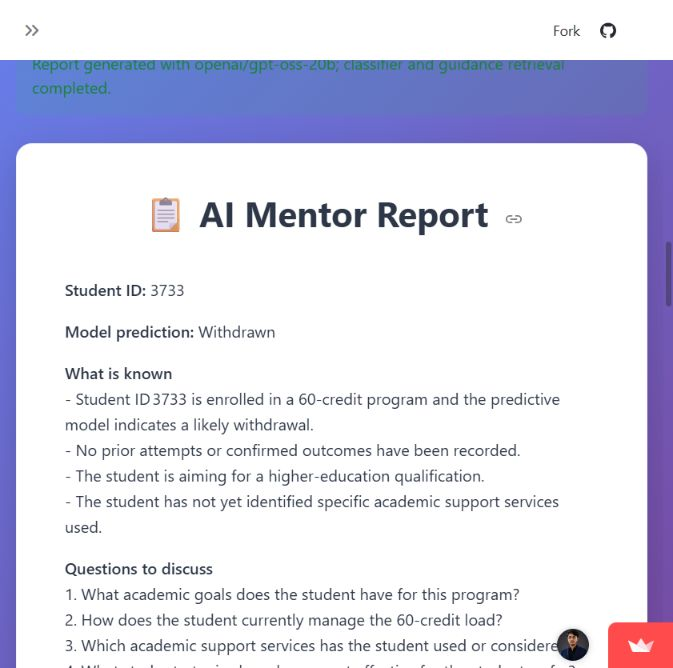
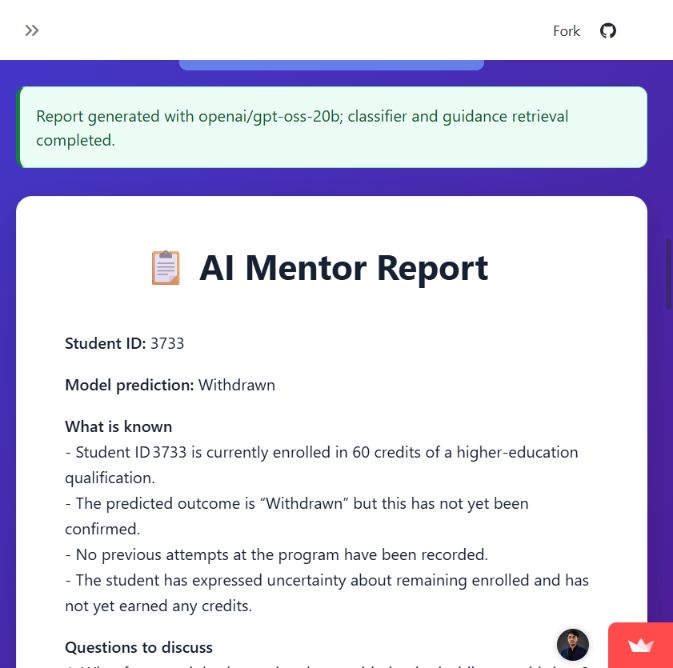
docs: refresh live screenshots after UI color fixes

diff --git a/docs/LIVE_APP_CHECK_2026-11-02.md b/docs/LIVE_APP_CHECK_2026-11-02.md
@@ -2,7 +2,7 @@
 
 **Target:** [AI Academic Mentor](https://ai-academic-mentor.streamlit.app/)
 
-**Repaired deployment source:** `4c1ccbd7f57dba158d2680fdb9bce6e40d1caf08`
+**Repaired deployment source:** `27232acb908307921f5441d6791c2b6c7bb888f4`
 
 **Final outcome:** The app woke successfully. Dashboard/profile interaction, a complete mentoring report, and its Markdown download passed the sample check after repair. The initial failures are preserved below as historical evidence.
 
@@ -16,10 +16,13 @@
 | Markdown report download | Passed | Downloaded `mentor_report_3733.md`; inspected the 4,372-character file and confirmed the student ID, classifier prediction, two source labels, and absence of the earlier compilation-error text. |
 | Workflow and UI regression suite | Passed | All 11 tests passed, including failure paths, empty responses, UI download visibility, table rendering, and inference from committed classifier artifacts. Provider calls in automated tests use fixtures. |
 | Real local classifier check | Passed | The committed artifacts loaded with scikit-learn 1.6.1 and predicted Withdrawn for 3733 and Pass for 6516. No model was retrained. |
+| UI contrast recheck | Passed for inspected surfaces | After repairs #7–#8, the hosted dashboard totals fit on one line in the current narrow view, profile selection updated to 6516, and another report completed for 3733. Computed styles confirmed a solid pale-green success alert with dark-green text and dark headings on white report cards. The refreshed screenshots show these surfaces. |
 | Output accuracy and intervention effectiveness | Not certified | Generated advice still needs human review. This sample test does not establish causal validity, perfect factuality, fairness, throughput, or effectiveness. |
 | Continuous availability | Not guaranteed | The visit woke the app. No periodic keep-alive monitor, billing change, or uptime guarantee was configured. |
 
 ![Successful hosted mentoring report](images/04-successful-mentor-report.jpg)
+
+The refreshed report is a later generation than the 4,372-character download checked above. It again displayed prediction Withdrawn and two retrieved source excerpts. It also asserted that the student had expressed uncertainty about remaining enrolled and had not earned credits; those assertions are unsupported by the supplied profile. This is a remaining content-quality limitation despite successful generation and the prompt constraints. The screenshot preserves the actual output.
 
 ## Initial checks before repair
 
@@ -65,7 +68,8 @@ The initial provider response stated that the configured model did not exist or 
 - The committed classifier/encoders record scikit-learn **1.6.1**. Pinning that runtime restored hosted prediction; the same artifacts passed local inference checks. See [compatibility repair #4](https://github.com/KhuzaimaHassan/AI-Academic-Mentor/pull/4).
 - Generated reports include the actual prediction and retrieved excerpts. Prompts distinguish facts from open questions and prohibit invented contacts, dates, and personal circumstances. Markdown tables render as tables. These constraints reduce observed problems but do not certify every generated claim. See [report presentation repair #5](https://github.com/KhuzaimaHassan/AI-Academic-Mentor/pull/5).
 - A clean dependency rebuild was requested after the page picked up new rendering while an older workflow module remained in memory. The final live report included the new deterministic evidence section, confirming that the updated workflow executed. See [runtime update #6](https://github.com/KhuzaimaHassan/AI-Academic-Mentor/pull/6).
+- Text colors now follow their surface: light text on the deeper purple background, dark text and headings on white cards, and solid alert backgrounds with readable status text. Button, dropdown, table, and status colors were also adjusted. Both existing UI tests passed; selected text/background pairs exceed 4.5:1 contrast. This is not a complete accessibility audit. See [UI contrast repair #7](https://github.com/KhuzaimaHassan/AI-Academic-Mentor/pull/7).
 
 The sidebar now reports the configured model and explains when workflow checks occur; its old unconditional health badges were removed.
 
-Screenshots are genuine captures of the public OULAD demo. Dashboard/profile images and the error image document the initial check; the successful report image documents the repaired workflow. No private student records, provider credentials, or account-management screens were captured. No model training, vector-store rebuild, batch run, or credential change was performed.
+Screenshots are genuine captures of the public OULAD demo. Dashboard, profile details, and the successful report were retaken after the UI contrast corrections; only the error image is retained from the initial check as historical evidence. The current narrow browser view was used without resizing. Summary-card spacing was also adjusted to keep dashboard totals on one line in that view; see [layout repair #8](https://github.com/KhuzaimaHassan/AI-Academic-Mentor/pull/8). No private student records, provider credentials, or account-management screens were captured. No model training, vector-store rebuild, batch run, or credential change was performed.

diff --git a/README.md b/README.md
@@ -26,7 +26,7 @@ The displayed totals summarize the dataset; they are not model-evaluation scores
 
 ### Student profile
 
-![Live profile for OULAD example student 6516, showing education, credits, attempts, and recorded outcome](docs/images/02-student-profile.jpg)
+![Live profile detail cards for OULAD example student 6516, showing academic background and recorded outcome](docs/images/02-student-profile.jpg)
 
 The profile's result card shows the recorded dataset outcome. It should not be read as a newly generated model prediction.
 
@@ -34,7 +34,7 @@ The profile's result card shows the recorded dataset outcome. It should not be r
 
 ![Successful hosted report showing student ID, actual model prediction, and a mentoring draft](docs/images/04-successful-mentor-report.jpg)
 
-The repaired workflow includes the classifier prediction and retrieved source excerpts in the downloadable report. Generated advice remains a draft for human review. Dashboard and profile images were captured during the initial wake-up check; the report image was captured after repair.
+The repaired workflow includes the classifier prediction and retrieved source excerpts in the downloadable report. Generated advice remains a draft for human review. All three images were retaken from the hosted app after the UI contrast corrections.
 
 ## What is implemented
 
